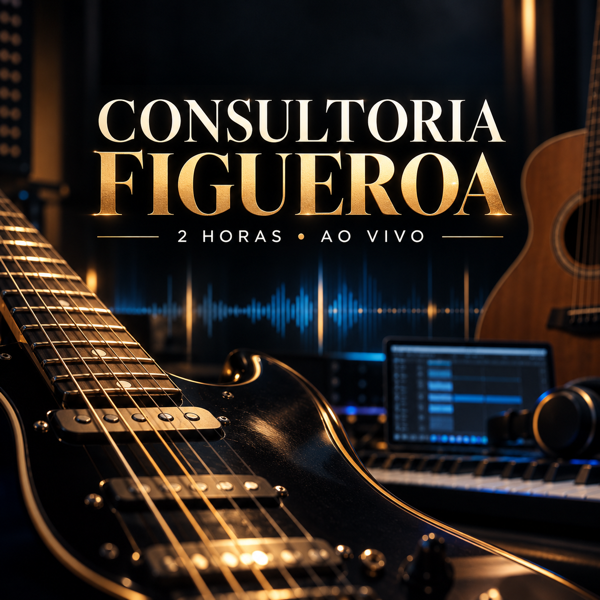
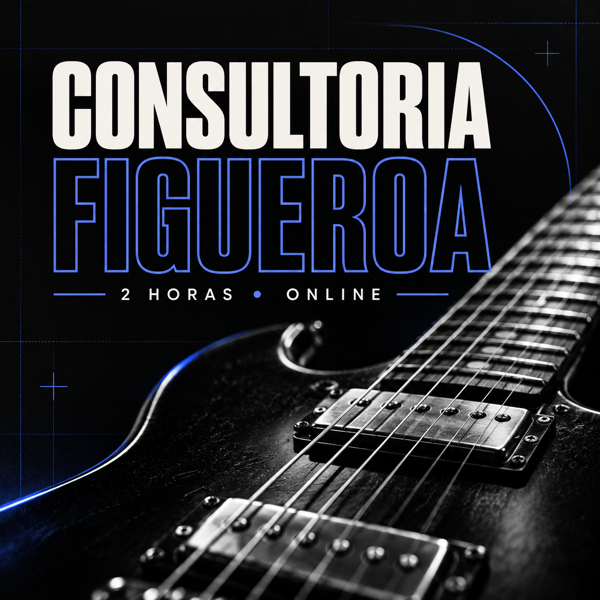
.

diff --git a/consultoria/index.html b/consultoria/index.html
@@ -3,92 +3,87 @@
   <head>
     <meta charset="UTF-8" />
     <meta name="viewport" content="width=device-width, initial-scale=1.0" />
-    <meta name="theme-color" content="#101318" />
-    <meta name="description" content="Consultoria Figueroa: aproximadamente 2 horas ao vivo pelo Google Meet sobre timbres, samplers, marketing, guitarra e violão. Gravação e resumo em PDF inclusos. R$ 450." />
+    <meta name="theme-color" content="#0b0b0b" />
+    <meta name="description" content="Consultoria Figueroa: aproximadamente 2 horas ao vivo pelo Google Meet sobre timbres, configuração, VS (samplers), marketing, guitarra e violão. Gravação e resumo em PDF inclusos. R$ 450." />
     <link rel="canonical" href="https://felipefigueroa.com.br/consultoria/" />
     <meta property="og:locale" content="pt_BR" />
     <meta property="og:type" content="product" />
     <meta property="og:site_name" content="Felipe Figueroa" />
     <meta property="og:title" content="Consultoria Figueroa | 2 horas para trabalhar no seu som" />
-    <meta property="og:description" content="Um encontro individual pelo Google Meet para trabalhar timbres, samplers, marketing, guitarra e violão. Gravação e resumo em PDF inclusos. R$ 450." />
+    <meta property="og:description" content="Consultoria individual pelo Google Meet sobre timbres, samplers, marketing, guitarra e violão. Gravação e resumo em PDF inclusos. R$ 450." />
     <meta property="og:url" content="https://felipefigueroa.com.br/consultoria/" />
-    <meta property="og:image" content="https://felipefigueroa.com.br/assets/consultoria-figueroa-600.png" />
+    <meta property="og:image" content="https://felipefigueroa.com.br/assets/consultoria-figueroa-600.png?v=2" />
     <meta property="og:image:width" content="600" />
     <meta property="og:image:height" content="600" />
-    <meta property="og:image:alt" content="Capa da Consultoria Figueroa com guitarra, violão e estúdio musical" />
+    <meta property="og:image:alt" content="Capa preta e azul da Consultoria Figueroa com uma guitarra" />
     <meta name="twitter:card" content="summary_large_image" />
     <title>Consultoria Figueroa | Felipe Figueroa</title>
     <link rel="icon" href="../favicon.ico?v=3" sizes="any" />
+    <link rel="apple-touch-icon" href="../assets/Logo%20Azul%20Felipe.png?v=3" />
     <link rel="preconnect" href="https://fonts.googleapis.com" />
     <link rel="preconnect" href="https://fonts.gstatic.com" crossorigin />
-    <link href="https://fonts.googleapis.com/css2?family=DM+Mono:wght@400;500&family=Manrope:wght@400;500;600;700;800&family=Oswald:wght@400;500;600&display=swap" rel="stylesheet" />
-    <link rel="stylesheet" href="style.css" />
+    <link href="https://fonts.googleapis.com/css2?family=DM+Mono:wght@400;500&family=Manrope:wght@400;500;600;700;800&family=Oswald:wght@400;500;600;700&display=swap" rel="stylesheet" />
+    <link rel="stylesheet" href="../styles.css?v=11" />
+    <link rel="stylesheet" href="style.css?v=2" />
   </head>
   <body>
-    <header class="site-header">
-      <div class="wrap header-inner">
-        <a class="brand" href="../" aria-label="Felipe Figueroa — voltar ao site"><span class="brand-mark">FF</span><span class="brand-name">FELIPE FIGUEROA <small>/ GUITAR</small></span></a>
-        <a class="header-link" href="#investimento">Ver investimento <span aria-hidden="true">↗</span></a>
+    <header class="site-nav sales-nav">
+      <div class="container site-nav-inner">
+        <a class="brand" href="../"><span class="brand-mark" aria-label="Felipe Figueroa"></span><strong>Felipe Figueroa</strong><span>/ consultoria</span></a>
+        <nav class="nav-links" aria-label="Navegação da consultoria">
+          <a href="#temas">Temas</a><a href="#como-funciona">Como funciona</a><a href="#investimento">Investimento</a>
+          <span class="nav-access"><a class="btn btn-outline" href="../">Voltar ao site</a><a class="btn btn-primary" href="#investimento">Ver valor <span aria-hidden="true">→</span></a></span>
+        </nav>
+        <div class="nav-mobile-access"><a class="icon-btn" href="../" aria-label="Voltar ao site">⌂</a><a class="icon-btn" href="#investimento" aria-label="Ver investimento">↗</a></div>
       </div>
     </header>
 
-    <main>
-      <section class="hero" aria-labelledby="hero-title">
-        <div class="hero-glow" aria-hidden="true"></div>
-        <div class="wrap hero-grid">
-          <div class="hero-copy">
-            <p class="eyebrow"><span class="eyebrow-line"></span> CONSULTORIA INDIVIDUAL · ONLINE</p>
-            <h1 id="hero-title">Uma conversa para dar <em>direção ao seu som.</em></h1>
-            <p class="hero-lead">Duas horas comigo para olhar de perto suas dúvidas, seu setup e seus objetivos na música — da guitarra e do violão aos timbres, samplers e marketing.</p>
-            <div class="hero-actions">
-              <a class="button button-primary" href="https://wa.me/5531999427901?text=Ol%C3%A1%2C%20Felipe!%20Tenho%20interesse%20na%20Consultoria%20Figueroa%20de%20R%24%20450.%20Como%20podemos%20agendar%3F" target="_blank" rel="noopener noreferrer">Quero agendar minha consultoria <span aria-hidden="true">↗</span></a>
-              <a class="text-link" href="#como-funciona">Entenda como funciona <span aria-hidden="true">↓</span></a>
-            </div>
-            <div class="hero-facts" aria-label="Informações principais"><span><b>01</b> encontro individual</span><span><b>≈ 2h</b> pelo Google Meet</span><span><b>R$ 450</b> investimento</span></div>
+    <main class="sales-page consultoria-page">
+      <section class="sales-hero consultoria-hero" aria-labelledby="consultoria-title">
+        <div class="container sales-hero-grid consultoria-hero-grid">
+          <div class="sales-hero-copy">
+            <span class="eyebrow">Consultoria individual · online</span>
+            <h1 id="consultoria-title">Seu som.<br>Seu caminho.<br><span>Uma direção.</span></h1>
+            <p>Um encontro de aproximadamente 2 horas para trabalhar suas dúvidas e seus objetivos — de timbres e samplers a marketing, guitarra e violão.</p>
+            <div class="sales-hero-actions"><a class="btn btn-primary" href="#investimento">Quero minha consultoria <span aria-hidden="true">→</span></a><a class="btn btn-outline" href="#como-funciona">Como funciona <span aria-hidden="true">↗</span></a></div>
+            <div class="sales-proof"><span>✓ Individual pelo Google Meet</span><span>✓ Gravação e resumo em PDF</span></div>
           </div>
-          <figure class="hero-art"><img src="../assets/consultoria-figueroa-600.png" alt="Arte da Consultoria Figueroa, com guitarras e equipamentos de áudio" width="600" height="600" fetchpriority="high" /><figcaption>Seu som. Suas perguntas. Um plano mais claro.</figcaption></figure>
+          <figure class="consultoria-cover"><img src="../assets/consultoria-figueroa-600.png?v=2" alt="Capa da Consultoria Figueroa em preto e azul, com guitarra" width="600" height="600" fetchpriority="high" /><figcaption>CONSULTORIA FIGUEROA <span>01 / ENCONTRO ONLINE</span></figcaption></figure>
         </div>
+        <div class="container sales-trust-strip consultoria-facts"><div><strong>≈ 2 horas</strong><span>para trabalhar suas questões</span></div><div><strong>Ao vivo</strong><span>pelo Google Meet</span></div><div><strong>R$ 450</strong><span>por consultoria individual</span></div></div>
       </section>
 
-      <section class="intro section" aria-labelledby="intro-title">
-        <div class="wrap intro-grid">
-          <div><p class="eyebrow">UM ENCONTRO FEITO PARA VOCÊ</p><h2 id="intro-title">Traga o que você quer resolver. <span>Vamos trabalhar nisso juntos.</span></h2></div>
-          <div class="intro-text"><p>A Consultoria Figueroa é um encontro online de aproximadamente duas horas para aprofundar os assuntos que fazem diferença na sua prática musical e no seu trabalho.</p><p>Você pode trazer perguntas, ideias, configurações e desafios reais. A conversa segue as suas necessidades dentro dos temas da consultoria.</p></div>
-        </div>
-      </section>
-
-      <section class="topics section" aria-labelledby="topics-title">
-        <div class="wrap">
-          <div class="section-heading"><div><p class="eyebrow">O QUE PODEMOS ABORDAR</p><h2 id="topics-title">Do instrumento ao seu projeto musical.</h2></div><p>Os assuntos são escolhidos de acordo com o que você precisa trabalhar no encontro.</p></div>
-          <div class="topics-grid">
-            <article class="topic"><span class="topic-num">01 /</span><h3>Timbres e configuração</h3><p>Converse sobre o som que você busca e as escolhas de configuração para chegar mais perto dele.</p></article>
-            <article class="topic"><span class="topic-num">02 /</span><h3>VS (samplers)</h3><p>Criação e configuração de VS (samplers) para o seu uso musical.</p></article>
-            <article class="topic"><span class="topic-num">03 /</span><h3>Guitarra e violão</h3><p>Questões gerais de estudo, execução, repertório e prática com os instrumentos.</p></article>
-            <article class="topic"><span class="topic-num">04 /</span><h3>Marketing musical</h3><p>Ideias e dúvidas sobre como apresentar e comunicar melhor o seu trabalho na música.</p></article>
+      <section class="sales-section sales-method" id="temas" aria-labelledby="temas-title">
+        <div class="container">
+          <div class="sales-section-head"><span class="eyebrow">O que podemos abordar</span><h2 id="temas-title">Da configuração ao seu trabalho na música.</h2><p>O encontro parte das suas perguntas e dos assuntos que você precisa trabalhar agora.</p></div>
+          <div class="method-grid consultoria-topics">
+            <article><span>01</span><b class="topic-mark" aria-hidden="true">↗</b><h3>Timbres e configuração</h3><p>O som que você busca e as escolhas de configuração para chegar mais perto dele.</p></article>
+            <article><span>02</span><b class="topic-mark" aria-hidden="true">↗</b><h3>VS (samplers)</h3><p>Criação e configuração de VS (samplers) para o seu uso musical.</p></article>
+            <article><span>03</span><b class="topic-mark" aria-hidden="true">↗</b><h3>Guitarra e violão</h3><p>Questões gerais de estudo, execução, repertório e prática.</p></article>
+            <article><span>04</span><b class="topic-mark" aria-hidden="true">↗</b><h3>Marketing musical</h3><p>Ideias e dúvidas para comunicar melhor o seu trabalho na música.</p></article>
           </div>
         </div>
       </section>
 
-      <section class="process section" id="como-funciona" aria-labelledby="process-title">
-        <div class="wrap process-grid">
-          <div class="process-intro"><p class="eyebrow">COMO FUNCIONA</p><h2 id="process-title">A conversa continua depois da chamada.</h2><p>Além do encontro ao vivo, você recebe materiais para retomar o que foi tratado com calma.</p></div>
-          <div class="steps">
-            <div class="step"><span>01</span><div><h3>Encontro pelo Google Meet</h3><p>Uma conversa individual de aproximadamente duas horas para trabalhar seus pontos de interesse.</p></div></div>
-            <div class="step"><span>02</span><div><h3>Gravação da consultoria</h3><p>O encontro é gravado para que você possa reassistir depois.</p></div></div>
-            <div class="step"><span>03</span><div><h3>Resumo em PDF</h3><p>Você também recebe um resumo com os pontos mais importantes da consultoria.</p></div></div>
+      <section class="sales-section formats-section" id="como-funciona" aria-labelledby="como-title">
+        <div class="container">
+          <div class="consultoria-section-intro"><span class="eyebrow">Como funciona</span><h2 id="como-title">Uma conversa ao vivo.<br>Conteúdo para revisitar.</h2></div>
+          <div class="format-grid">
+            <article class="format-card online-format"><span class="tag lime">01 · O encontro</span><h2>Aproximadamente 2 horas pelo Google Meet.</h2><p>Uma conversa individual para aprofundar as questões que você trouxer dentro dos temas da consultoria.</p></article>
+            <article class="format-card"><span class="tag">02 · Depois da chamada</span><h2>Gravação e resumo em PDF.</h2><p>A consultoria é gravada para você reassistir depois. Você também recebe um resumo com os pontos mais importantes do encontro.</p></article>
           </div>
         </div>
       </section>
 
-      <section class="offer section" id="investimento" aria-labelledby="offer-title">
-        <div class="wrap offer-grid">
-          <div class="offer-copy"><p class="eyebrow">INVESTIMENTO</p><h2 id="offer-title">Reserve um tempo para o que pode transformar sua prática.</h2><p>Uma consultoria individual para trabalhar suas dúvidas com atenção, sair com pontos claros para seguir e poder revisitar a conversa depois.</p></div>
-          <div class="offer-card"><div class="offer-card-top"><span>CONSULTORIA FIGUEROA</span><span>ONLINE · INDIVIDUAL</span></div><div class="price"><small>R$</small>450</div><p class="price-note">por encontro de aproximadamente 2 horas</p><ul><li>Encontro ao vivo pelo Google Meet</li><li>Gravação para reassistir</li><li>Resumo dos principais pontos em PDF</li></ul><!-- Substitua o href do botão abaixo pelo link do checkout da Hotmart quando estiver disponível. --><a class="button button-primary" id="botao-compra" data-checkout-provider="hotmart" href="https://wa.me/5531999427901?text=Ol%C3%A1%2C%20Felipe!%20Quero%20comprar%20a%20Consultoria%20Figueroa%20de%20R%24%20450.%20Como%20fa%C3%A7o%20o%20pagamento%20e%20o%20agendamento%3F" target="_blank" rel="noopener noreferrer">Comprar a consultoria <span aria-hidden="true">↗</span></a><small class="offer-footnote">Por enquanto, a compra é combinada pelo WhatsApp.</small></div>
+      <section class="sales-section pricing-section" id="investimento" aria-labelledby="investimento-title">
+        <div class="container consultoria-offer-grid">
+          <div class="consultoria-offer-copy"><span class="eyebrow">Investimento</span><h2 id="investimento-title">Vamos trabalhar no que importa para o seu som.</h2><p>Um encontro individual, ao vivo e direcionado às suas dúvidas. A gravação e o resumo em PDF estão incluídos no valor.</p></div>
+          <article class="price-card featured consultoria-price-card"><span class="popular-flag">Consultoria individual</span><div class="price-card-head"><span>Consultoria Figueroa</span><h3>Seu encontro</h3><p>Aproximadamente 2 horas pelo Google Meet</p></div><div class="price-block"><strong>R$ 450</strong><span>Valor por consultoria</span></div><ul><li>✓ Encontro individual ao vivo</li><li>✓ Gravação para reassistir</li><li>✓ Resumo dos principais pontos em PDF</li></ul><!-- Substitua o href do botão pelo checkout da Hotmart quando estiver disponível. --><a class="btn btn-primary" id="botao-compra" data-checkout-provider="hotmart" href="https://wa.me/5531999427901?text=Ol%C3%A1%2C%20Felipe!%20Quero%20comprar%20a%20Consultoria%20Figueroa%20de%20R%24%20450.%20Como%20fa%C3%A7o%20o%20pagamento%20e%20o%20agendamento%3F" target="_blank" rel="noopener noreferrer">Comprar a consultoria <span aria-hidden="true">→</span></a><small>Por enquanto, a compra é combinada pelo WhatsApp.</small></article>
         </div>
       </section>
     </main>
 
-    <footer class="site-footer"><div class="wrap footer-inner"><span>© <span id="year">2026</span> Felipe Figueroa</span><span>Guitarra · Violão · Música</span><a href="../">Voltar ao site <span aria-hidden="true">↗</span></a></div></footer>
+    <footer class="sales-footer"><div class="container"><span>© <span id="year">2026</span> Felipe Figueroa</span><span>Consultoria online · guitarra e violão</span><a href="../">Voltar ao site</a></div></footer>
     <script>document.getElementById('year').textContent = new Date().getFullYear();</script>
   </body>
 </html>

diff --git a/consultoria/style.css b/consultoria/style.css
@@ -1,90 +1,30 @@
-:root{color-scheme:dark;--bg:#101318;--bg2:#171b21;--ink:#f5f1e9;--muted:#a7abb0;--gold:#dfb877;--line:#34383d;--blue:#1f73aa}
-*{box-sizing:border-box}
-html{scroll-behavior:smooth}
-body{margin:0;background:var(--bg);color:var(--ink);font-family:Manrope,Arial,sans-serif;-webkit-font-smoothing:antialiased}
-a{color:inherit;text-decoration:none}
-button,a{-webkit-tap-highlight-color:transparent}
-a:focus-visible{outline:2px solid var(--gold);outline-offset:5px}
-.wrap{width:min(1180px,calc(100% - 48px));margin-inline:auto}
-.site-header{position:relative;z-index:2;border-bottom:1px solid #ffffff15;background:#101318ed}
-.header-inner{min-height:82px;display:flex;align-items:center;justify-content:space-between;gap:20px}
-.brand{display:inline-flex;align-items:center;gap:12px;font-weight:800;letter-spacing:.06em;font-size:13px}
-.brand-mark{display:grid;place-items:center;width:38px;height:38px;border:1px solid #dfb87780;border-radius:50%;font-family:Oswald,sans-serif;font-size:18px;letter-spacing:-.04em;color:var(--gold)}
-.brand-name small{font:400 11px 'DM Mono',monospace;color:var(--muted);white-space:nowrap}
-.header-link,.text-link{font-size:12px;font-weight:700;letter-spacing:.08em;text-transform:uppercase}
-.header-link span,.text-link span{color:var(--gold);margin-left:7px}
-.hero{position:relative;overflow:hidden;background:radial-gradient(circle at 79% 27%,#17334a 0,#101318 42%,#0d1014 100%)}
-.hero-glow{position:absolute;inset:auto -10% -340px auto;width:780px;height:780px;border-radius:50%;background:#ac713322;filter:blur(100px);pointer-events:none}
-.hero-grid{position:relative;display:grid;grid-template-columns:minmax(0,1.06fr) minmax(350px,.94fr);align-items:center;gap:7%;padding:85px 0 91px}
-.eyebrow{margin:0 0 24px;color:var(--gold);font:500 11px 'DM Mono',monospace;letter-spacing:.18em;text-transform:uppercase}
-.eyebrow-line{display:inline-block;width:19px;height:1px;background:var(--gold);vertical-align:middle;margin-right:10px}
-h1,h2,h3,p,figure{margin-top:0}
-h1,h2{font-family:Oswald,Impact,sans-serif;font-weight:500;text-transform:uppercase;letter-spacing:.005em}
-h1{font-size:clamp(52px,5vw,72px);line-height:1.04;max-width:690px;margin-bottom:26px}
-h1 em{color:var(--gold);font-style:normal}
-.hero-lead{color:#d1d3d4;font-size:17px;line-height:1.76;max-width:590px;margin-bottom:31px}
-.hero-actions{display:flex;align-items:center;gap:28px;flex-wrap:wrap}
-.button{display:inline-flex;align-items:center;justify-content:center;gap:17px;border-radius:3px;min-height:55px;padding:15px 24px;font-size:13px;font-weight:800;letter-spacing:.015em;transition:transform .2s,background .2s}
-.button:hover{transform:translateY(-2px)}
-.button-primary{background:var(--gold);color:#171612}
-.button-primary:hover{background:#f3ce8e}
-.button span{font-size:19px;font-weight:400}
-.hero-facts{display:flex;gap:26px;flex-wrap:wrap;border-top:1px solid #ffffff24;margin-top:56px;padding-top:19px;color:var(--muted);font-size:12px}
-.hero-facts span{white-space:nowrap}
-.hero-facts b{color:var(--ink);font-weight:800;margin-right:5px}
-.hero-art{position:relative;margin:0;transform:rotate(2deg)}
-.hero-art:before{content:"";position:absolute;inset:16px -12px -16px 12px;border:1px solid #dfb87780;z-index:-1}
-.hero-art img{display:block;width:100%;height:auto;aspect-ratio:1;object-fit:cover;box-shadow:0 28px 90px #0009}
-.hero-art figcaption{position:absolute;left:0;bottom:-36px;font:400 10px 'DM Mono',monospace;text-transform:uppercase;letter-spacing:.14em;color:#b2b2b2;transform:rotate(-2deg)}
-.section{padding:112px 0}
-.intro{background:#ece9e3;color:#171b21}
-.intro-grid{display:grid;grid-template-columns:1.05fr .75fr;gap:12%;align-items:end}
-.intro .eyebrow{color:#8f6337}
-h2{font-size:clamp(40px,4.2vw,63px);line-height:1.13;margin-bottom:0}
-.intro h2 span{color:#8f6337}
-.intro-text{border-left:1px solid #acaaa4;padding-left:30px}
-.intro-text p{font-size:16px;line-height:1.85;margin-bottom:20px}
-.intro-text p:last-child{margin-bottom:0}
-.topics{background:#14181d}
-.section-heading{display:flex;justify-content:space-between;align-items:end;gap:40px;margin-bottom:48px}
-.section-heading h2{max-width:660px}
-.section-heading>p{max-width:270px;color:var(--muted);line-height:1.7;margin-bottom:5px;font-size:14px}
-.topics-grid{display:grid;grid-template-columns:repeat(4,1fr);border-top:1px solid var(--line);border-bottom:1px solid var(--line)}
-.topic{padding:28px 25px 32px;border-right:1px solid var(--line);min-height:230px}
-.topic:first-child{padding-left:0}
-.topic:last-child{border-right:0}
-.topic-num{display:block;color:var(--gold);font:500 11px 'DM Mono',monospace;letter-spacing:.13em;margin-bottom:34px}
-.topic h3{font-family:Oswald,sans-serif;font-size:24px;line-height:1.18;text-transform:uppercase;font-weight:500;margin-bottom:12px}
-.topic p{font-size:13px;line-height:1.75;color:var(--muted);margin-bottom:0}
-.process{background:#101318}
-.process-grid{display:grid;grid-template-columns:.8fr 1fr;gap:14%}
-.process-intro h2{margin-bottom:25px}
-.process-intro>p:last-child{color:var(--muted);line-height:1.75;max-width:390px}
-.steps{border-top:1px solid var(--line)}
-.step{display:grid;grid-template-columns:56px 1fr;gap:22px;padding:27px 0;border-bottom:1px solid var(--line)}
-.step>span{font:500 13px 'DM Mono',monospace;color:var(--gold)}
-.step h3{font-family:Oswald,sans-serif;font-weight:500;text-transform:uppercase;font-size:24px;margin-bottom:6px}
-.step p{color:var(--muted);font-size:14px;line-height:1.7;margin-bottom:0}
-.offer{background:radial-gradient(circle at 9% 85%,#1c3648 0,transparent 44%),#1a2027}
-.offer-grid{display:grid;grid-template-columns:1fr minmax(340px,440px);align-items:center;gap:12%}
-.offer-copy h2{margin-bottom:24px}
-.offer-copy>p:last-child{color:#c1c6c9;line-height:1.8;max-width:520px}
-.offer-card{border:1px solid #dfb87770;background:#101318;padding:31px 34px 35px;box-shadow:0 24px 65px #0006}
-.offer-card-top{display:flex;justify-content:space-between;gap:15px;color:var(--gold);font:500 10px 'DM Mono',monospace;letter-spacing:.08em}
-.offer-card-top span:last-child{color:var(--muted);text-align:right}
-.price{font-family:Oswald,sans-serif;font-size:100px;line-height:1;margin-top:30px;letter-spacing:-.025em}
-.price small{font-size:27px;color:var(--gold);vertical-align:top;display:inline-block;margin:14px 10px 0 0}
-.price-note{color:var(--muted);font-size:13px;margin-bottom:27px}
-.offer-card ul{padding:23px 0 18px;margin:0;list-style:none;border-top:1px solid var(--line)}
-.offer-card li{position:relative;padding:0 0 13px 23px;color:#e4e4e3;font-size:13px;line-height:1.5}
-.offer-card li:before{content:"✓";position:absolute;left:0;color:var(--gold)}
-.offer-card .button{width:100%}
-.offer-footnote{display:block;text-align:center;color:var(--muted);font-size:11px;line-height:1.5;margin-top:16px}
-.site-footer{border-top:1px solid var(--line);background:#0d1014}
-.footer-inner{display:flex;justify-content:space-between;gap:20px;align-items:center;min-height:88px;color:var(--muted);font-size:12px}
-.footer-inner a{color:var(--ink)}
-.footer-inner a span{color:var(--gold)}
-@media(max-width:980px){.hero-grid{gap:5%;grid-template-columns:minmax(0,1fr) minmax(300px,.8fr)}h1{font-size:clamp(48px,6vw,66px)}.topics-grid{grid-template-columns:repeat(2,1fr)}.topic:nth-child(2){border-right:0}.topic:nth-child(-n+2){border-bottom:1px solid var(--line)}.topic:nth-child(3){padding-left:0}.process-grid,.offer-grid{gap:7%}}
-@media(max-width:720px){.wrap{width:min(100% - 34px,520px)}.header-inner{min-height:70px}.header-link{font-size:10px}.brand-name{font-size:11px}.brand-name small{display:none}.hero-grid,.intro-grid,.process-grid,.offer-grid{grid-template-columns:1fr}.hero-grid{padding:62px 0 78px;gap:56px}h1{font-size:clamp(48px,12vw,68px)}.hero-lead{font-size:15px}.hero-facts{margin-top:38px;gap:12px 24px}.hero-art{width:min(100% - 16px,460px);margin-inline:auto}.section{padding:76px 0}.intro-grid{gap:30px}.intro-text{padding-left:20px}.section-heading{display:block;margin-bottom:35px}.section-heading>p{max-width:450px;margin-top:20px}.process-grid{gap:38px}.offer-grid{gap:36px}.footer-inner{flex-wrap:wrap;padding:26px 0;min-height:0}.footer-inner span:nth-child(2){display:none}}
-@media(max-width:480px){.hero-actions{display:block}.hero-actions .button{width:100%}.hero-actions .text-link{display:inline-block;margin-top:22px}.topics-grid{grid-template-columns:1fr}.topic,.topic:first-child,.topic:nth-child(3){border-right:0;border-bottom:1px solid var(--line);padding:25px 0;min-height:0}.topic:last-child{border-bottom:0}.topic-num{margin-bottom:17px}.offer-card{padding:25px 22px 28px}.offer-card-top{font-size:9px}.price{font-size:88px}}
-@media(prefers-reduced-motion:reduce){html{scroll-behavior:auto}.button{transition:none}}
+/* A página usa as cores, tipografia, navegação e componentes de ../styles.css. */
+.consultoria-page .consultoria-hero{padding-top:155px}
+.consultoria-page .consultoria-hero-grid{grid-template-columns:minmax(0,1.12fr) minmax(340px,.88fr);gap:clamp(45px,7vw,95px);padding-bottom:88px}
+.consultoria-page .sales-hero-copy h1{font-size:clamp(64px,7.4vw,106px);max-width:790px}
+.consultoria-page .sales-hero-copy>p{max-width:610px}
+.consultoria-cover{position:relative;min-width:0;margin:0;padding:12px;border:1px solid rgba(130,153,255,.45);background:#111115;box-shadow:0 30px 90px rgba(0,0,0,.45)}
+.consultoria-cover:after{content:"";position:absolute;inset:-15px 14px 14px -15px;border:1px solid rgba(95,124,255,.17);z-index:-1;pointer-events:none}
+.consultoria-cover img{width:100%;height:auto;aspect-ratio:1;object-fit:cover}
+.consultoria-cover figcaption{display:flex;justify-content:space-between;gap:12px;padding:14px 3px 2px;color:#a5a3a0;font:500 9px/1.3 var(--font-mono);letter-spacing:.07em}
+.consultoria-cover figcaption span{color:#8299ff;text-align:right}
+.consultoria-page .consultoria-facts{grid-template-columns:repeat(3,1fr)}
+.consultoria-page .consultoria-facts strong{font-size:clamp(26px,3vw,38px)}
+.consultoria-page .consultoria-topics .topic-mark{position:absolute;right:25px;top:17px;color:#3d5bb8;font:400 27px/1 var(--font-display)}
+.consultoria-section-intro{display:grid;grid-template-columns:.5fr 1.3fr .8fr;gap:45px;align-items:start;margin-bottom:55px}
+.consultoria-section-intro h2{grid-column:2/4;margin:0;font:500 clamp(44px,5.8vw,75px)/.96 var(--font-display);letter-spacing:-.03em;text-transform:uppercase}
+.consultoria-page .format-card{min-height:440px}
+.consultoria-page .format-card h2{max-width:560px}
+.consultoria-offer-grid{display:grid;grid-template-columns:minmax(0,1fr) minmax(340px,450px);gap:clamp(50px,9vw,130px);align-items:center}
+.consultoria-offer-copy h2{max-width:690px;margin:22px 0 25px;font:500 clamp(50px,6vw,82px)/.95 var(--font-display);letter-spacing:-.03em;text-transform:uppercase}
+.consultoria-offer-copy p{max-width:510px;margin:0;color:#aaa8a1;font-size:15px;line-height:1.8}
+.consultoria-price-card{min-height:0}
+.consultoria-price-card .price-card-head h3{font-size:43px}
+.consultoria-price-card .price-block>strong{font-size:clamp(60px,7vw,82px)}
+.consultoria-price-card ul{margin:24px 0 32px}
+.consultoria-price-card li{color:#c4c2bc;font-size:12px}
+.consultoria-price-card>a.btn{min-height:52px}
+.consultoria-price-card>small{display:block;margin-top:13px;color:#77756f;text-align:center;font:400 9px/1.5 var(--font-mono)}
+@media(max-width:980px){.consultoria-page .consultoria-hero-grid{grid-template-columns:1fr;gap:52px}.consultoria-cover{width:min(100%,540px)}.consultoria-section-intro{grid-template-columns:1fr 1.5fr}.consultoria-section-intro h2{grid-column:2}.consultoria-offer-grid{grid-template-columns:1fr}.consultoria-price-card{max-width:550px}}
+@media(max-width:680px){.consultoria-page .consultoria-hero{padding-top:122px}.consultoria-page .consultoria-hero-grid{gap:40px;padding-bottom:60px}.consultoria-page .sales-hero-copy h1{font-size:clamp(52px,15.7vw,72px);line-height:.9}.consultoria-cover{padding:8px}.consultoria-cover figcaption{font-size:8px}.consultoria-page .consultoria-facts{grid-template-columns:1fr 1fr}.consultoria-page .consultoria-facts div:last-child{grid-column:1/-1;border-bottom:0}.consultoria-page .consultoria-facts div:nth-child(2){border-right:0}.consultoria-section-intro{grid-template-columns:1fr;gap:18px;margin-bottom:36px}.consultoria-section-intro h2{grid-column:auto}.consultoria-page .format-card{min-height:370px}.consultoria-offer-grid{gap:37px}.consultoria-offer-copy h2{font-size:clamp(47px,13vw,65px)}.consultoria-price-card .price-block>strong{font-size:64px}}
+@media(prefers-reduced-motion:reduce){html{scroll-behavior:auto}}
